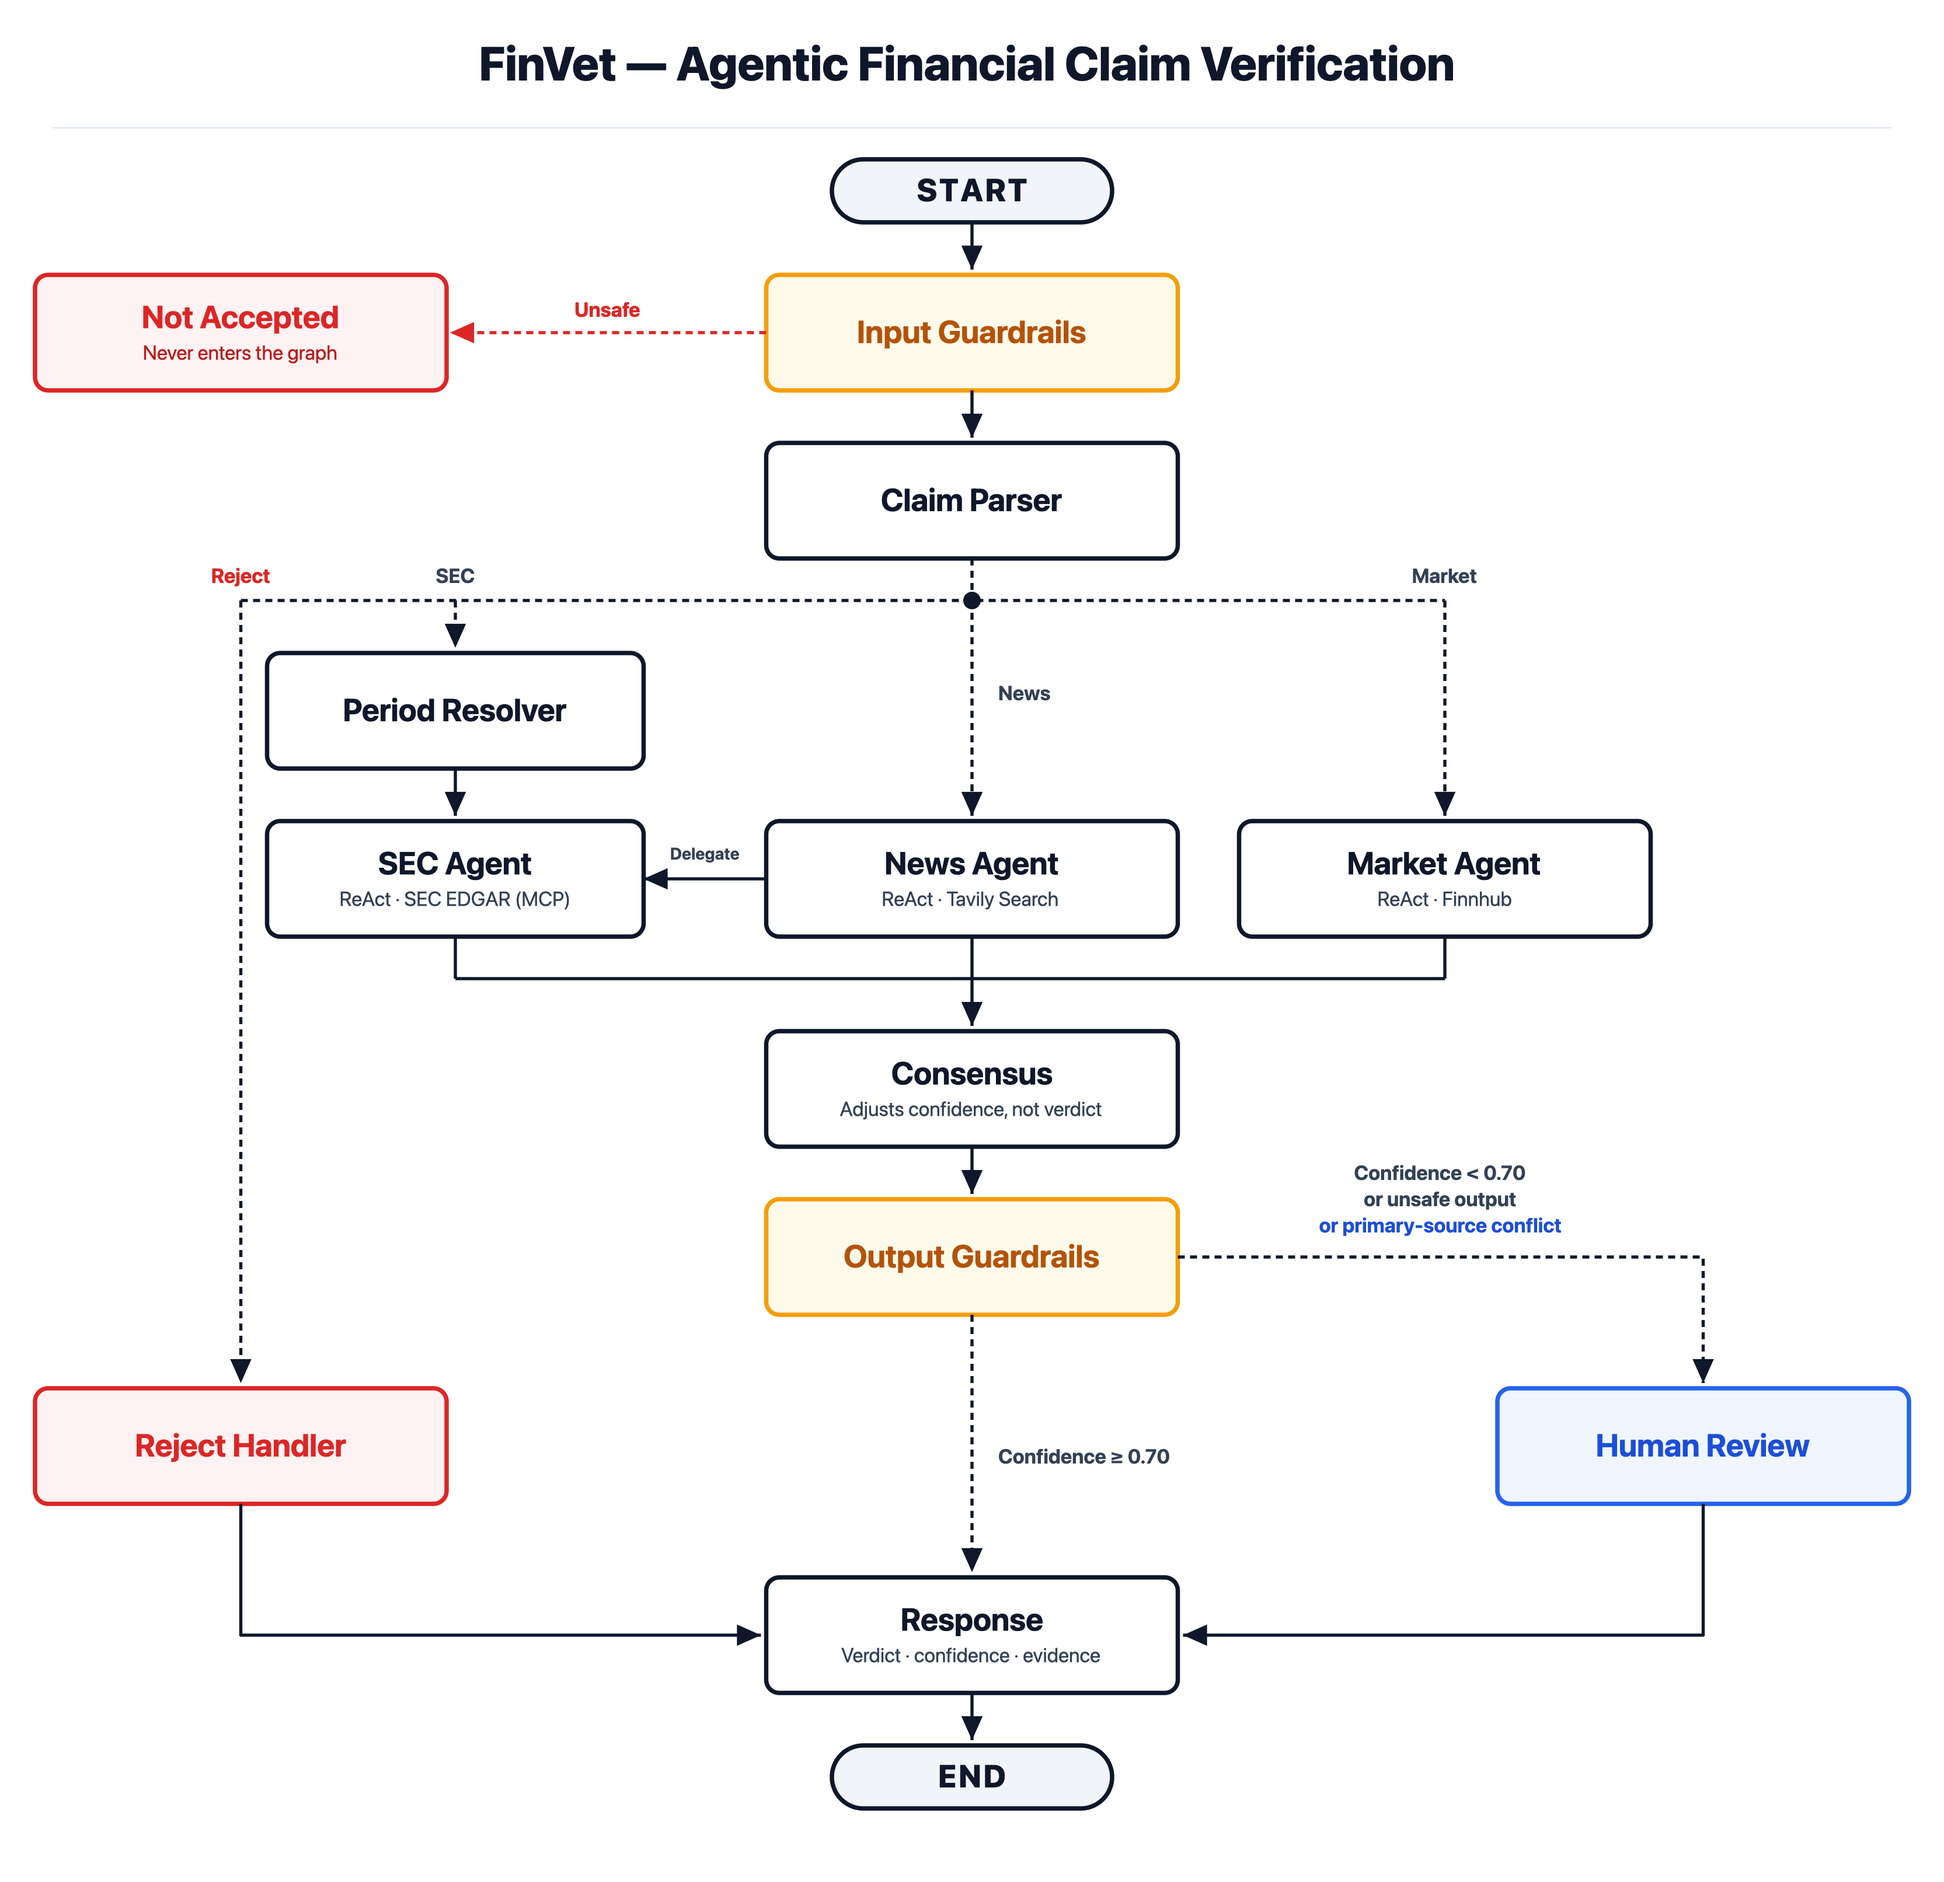
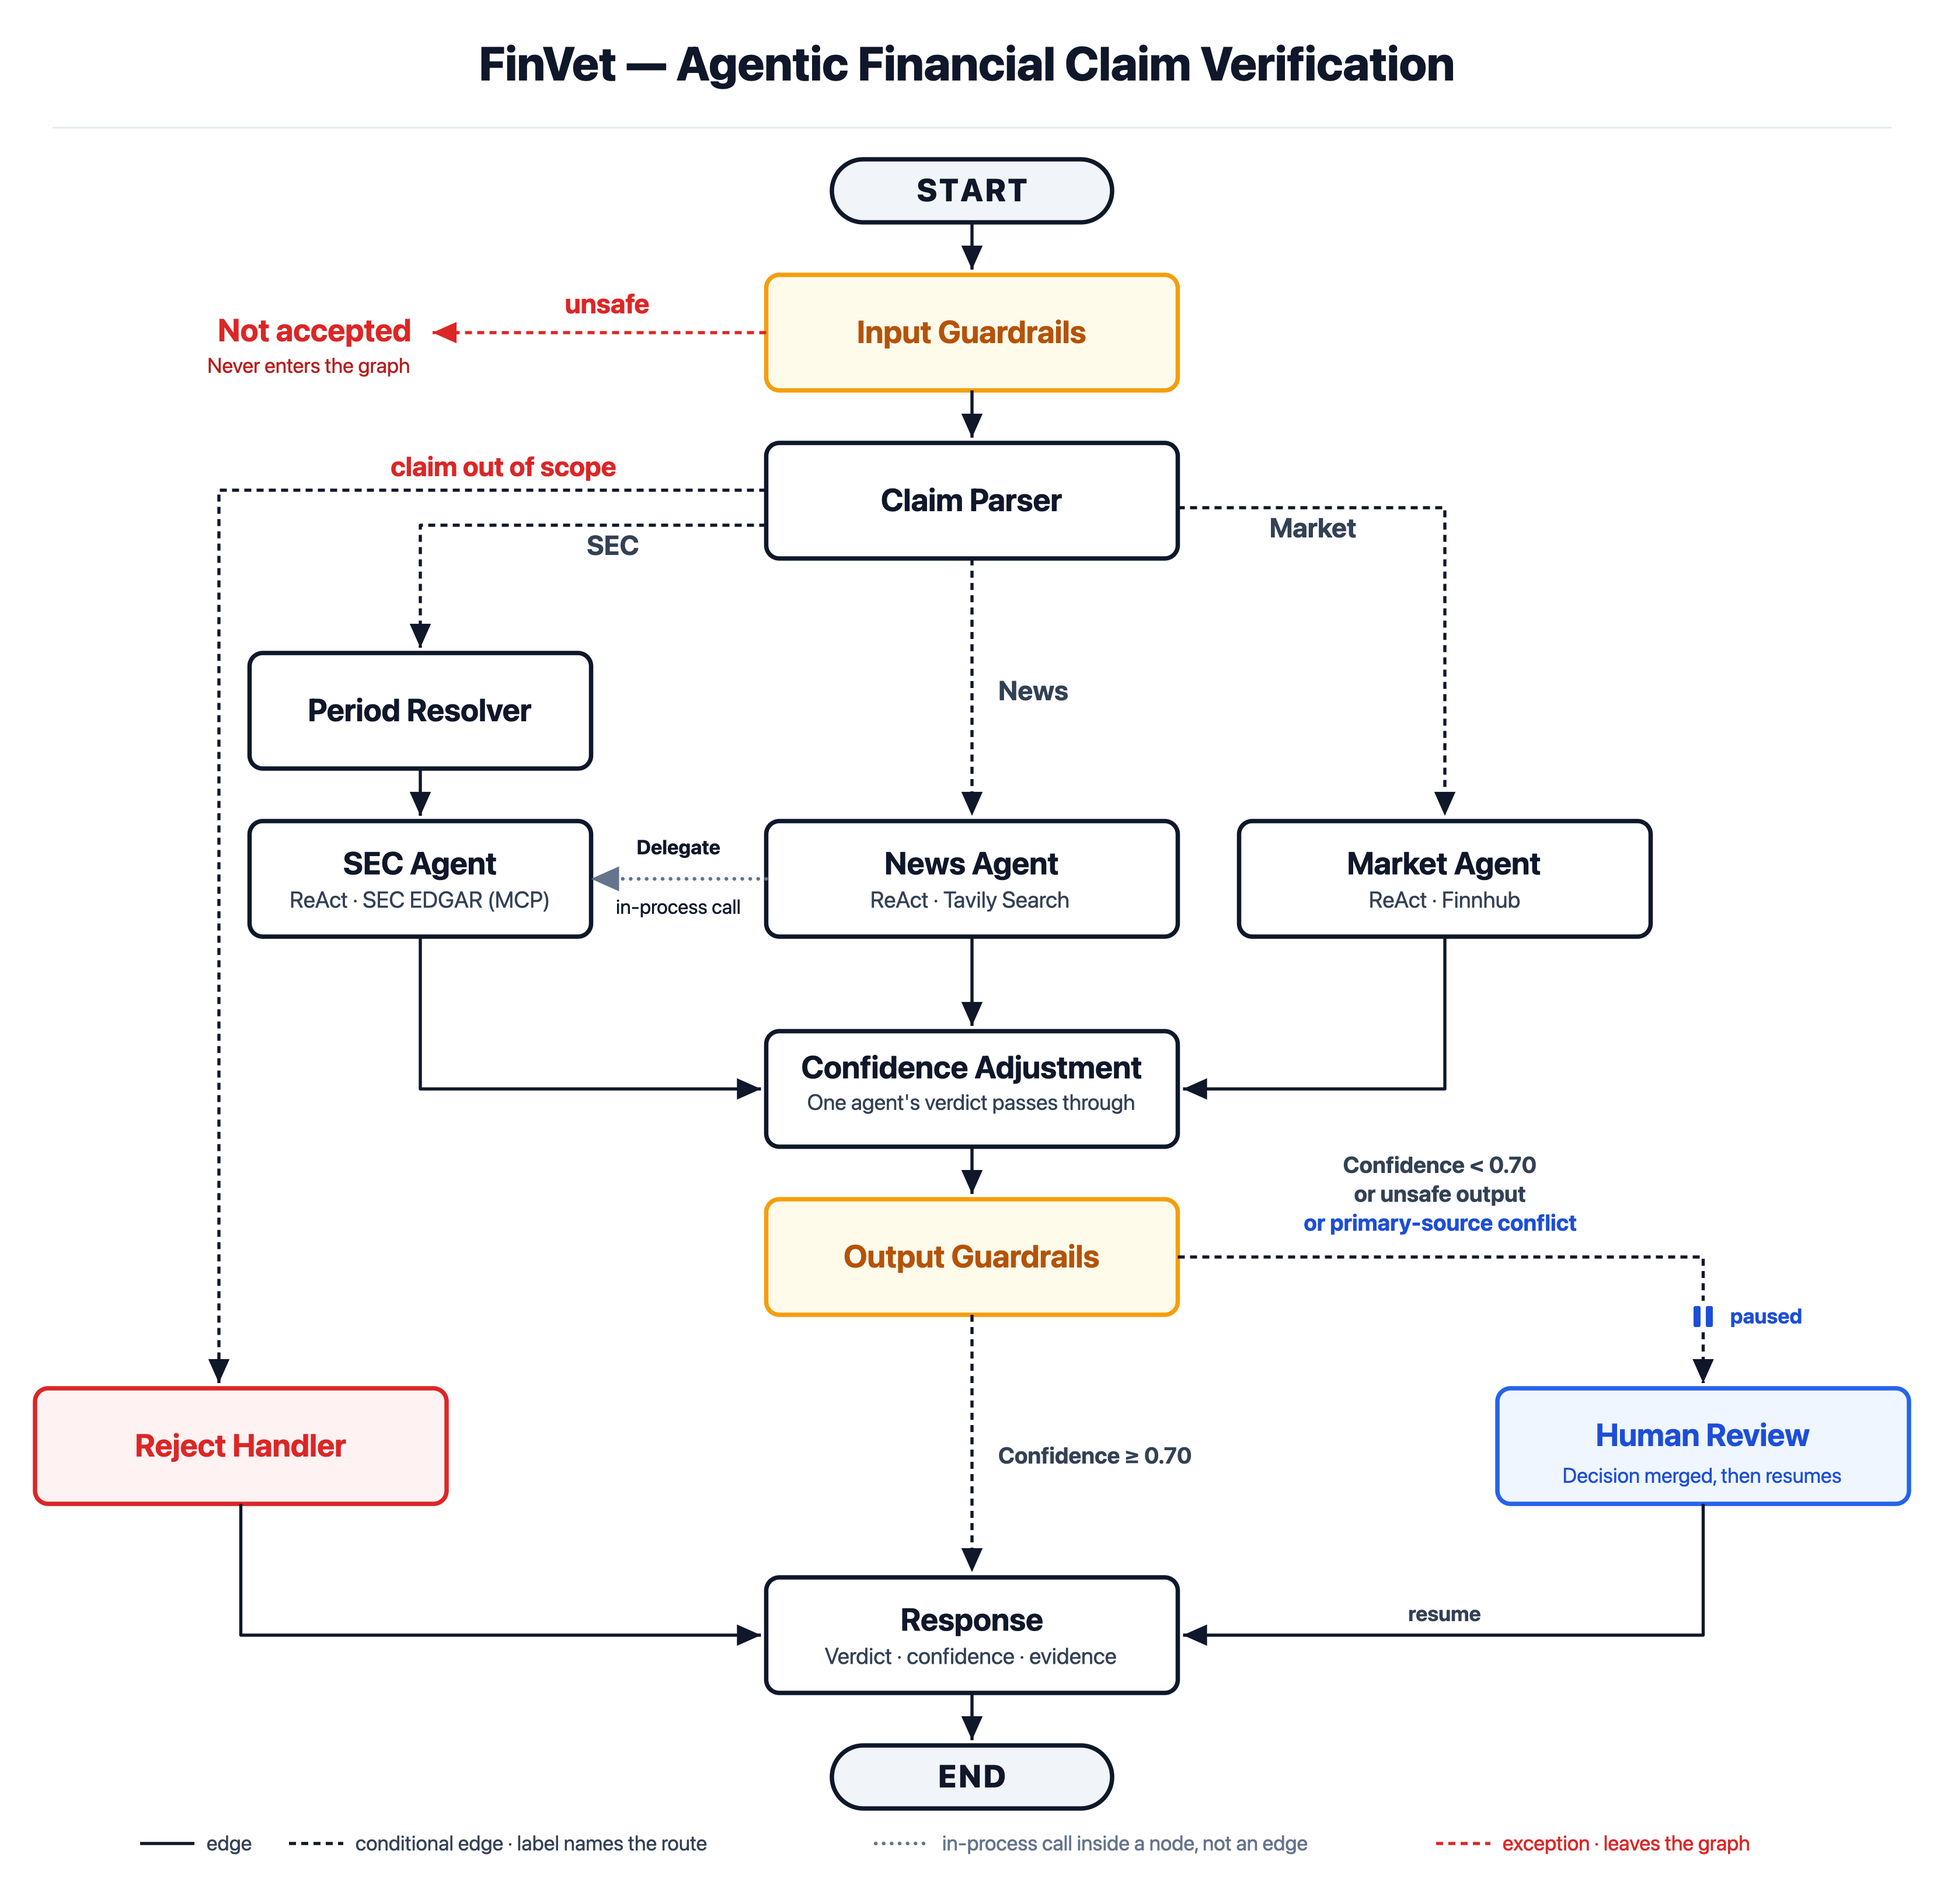
docs(diagram): edges leave the parser directly; outcomes and calls drawn as what they are
The README diagram is the conceptual view, but its shapes and lines should
not claim more than the compiled graph has:

- The parser's conditional edge is drawn as LangGraph draws it: four dashed
  edges leaving the Claim Parser box, labelled sec, news, market and
  "claim out of scope". No dot, no rail.
- Three solid edges enter the confidence node, one per agent, instead of a
  shared bus merging into one arrow.
- "Not accepted" is text, not a box: it is an outcome and not a step. The
  guard raises inside the graph and the claim never enters it.
  Delegation is a line of grey dots labelled as an in-process call, because
  there is no edge between the news and SEC agents. A legend distinguishes
  edge, conditional edge, in-process call and exception.
- "Consensus" is retitled Confidence Adjustment with the caption "One
  agent's verdict passes through". Human Review stays one box, with a pause
  mark before it and "resume" on the way out.

Label and caption sizes are raised and the README embeds the image at
1000px instead of 800px so the small text is legible without opening it.

diff --git a/README.md b/README.md
@@ -104,7 +104,7 @@ per claim, so consensus passes its verdict through and adjusts confidence rather
 reconciling several opinions.
 
 <p align="center">
-  <a href="docs/diagrams/finvet-linkedin.png"><img src="docs/diagrams/finvet-linkedin.png" alt="Architecture" width="800"></a>
+  <a href="docs/diagrams/finvet-linkedin.png"><img src="docs/diagrams/finvet-linkedin.png" alt="Architecture" width="1000"></a>
   <br><sub>Click the diagram for full resolution.</sub>
 </p>
 
